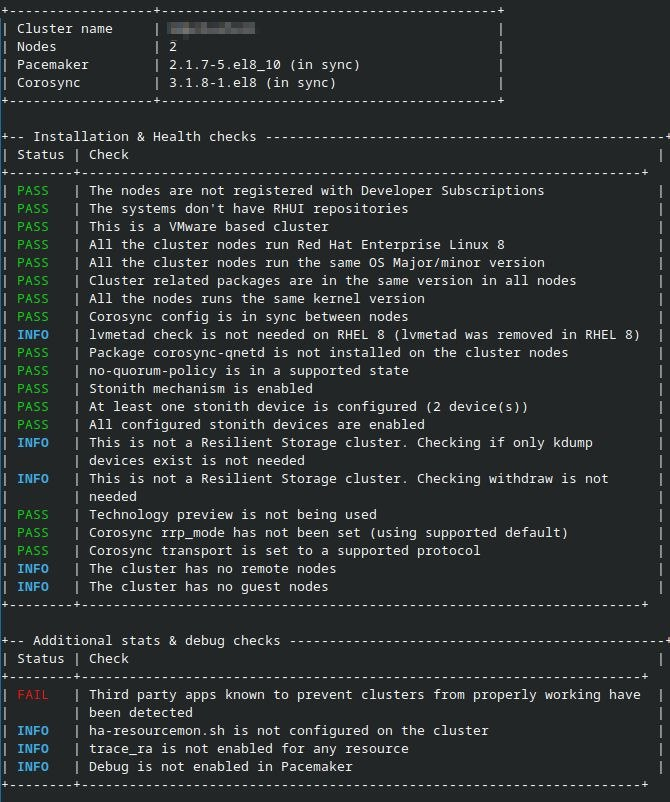
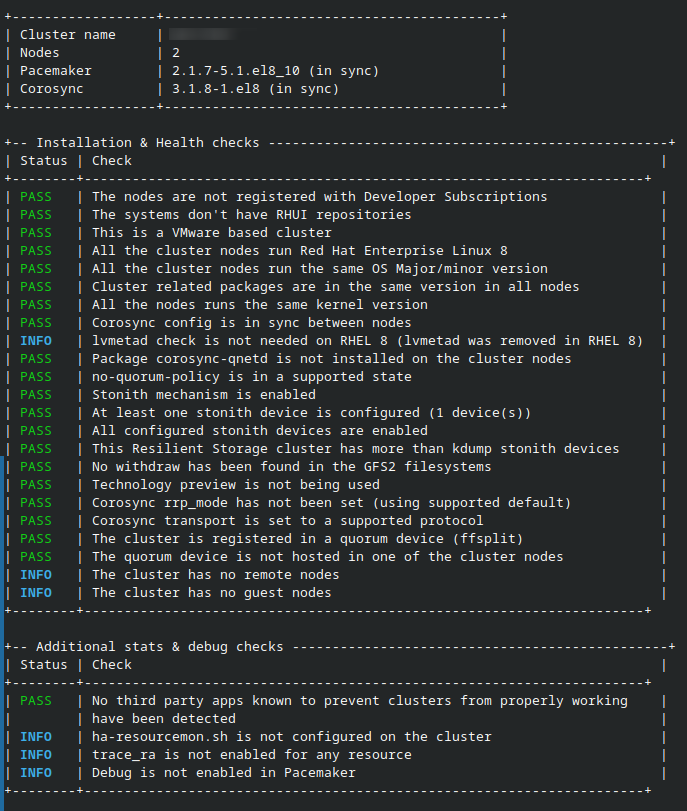
Added first quorum device checks

diff --git a/CHANGELOG.md b/CHANGELOG.md
@@ -16,6 +16,8 @@ The format is based on [Keep a Changelog](https://keepachangelog.com/en/1.1.0/).
 - Added corosync transport protocol check.
 - Added detection for Fujitsu Primecluster.
 - Added check that fails when a Resilient Storage cluster has only `fence_kdump` stonith devices.
+- Added check to ensure the cluster is registered in a quorum device using the right algorithm.
+- Added check to ensure the quorum device is not hosted in one of the cluster nodes.
 
 ## [1.1.1]
 

diff --git a/README.md b/README.md
@@ -165,6 +165,8 @@ sosreport-node2-2025-08-20-def456
 - Technology Preview feature detection
 - Remote and guest node detection
 - GFS2 withdraw checks
+- Cluster is registered in a quorum device using the right algorithm
+- Quorum device is not hosted in one of the cluster nodes
 
 ## Additional stats and debug checks
 
